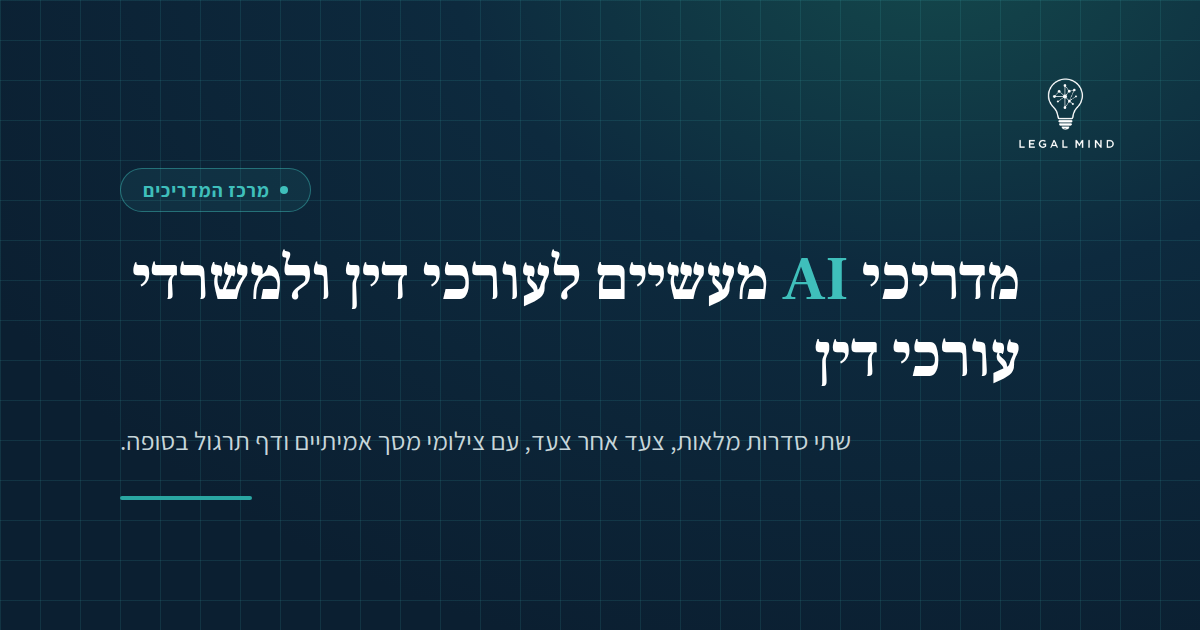
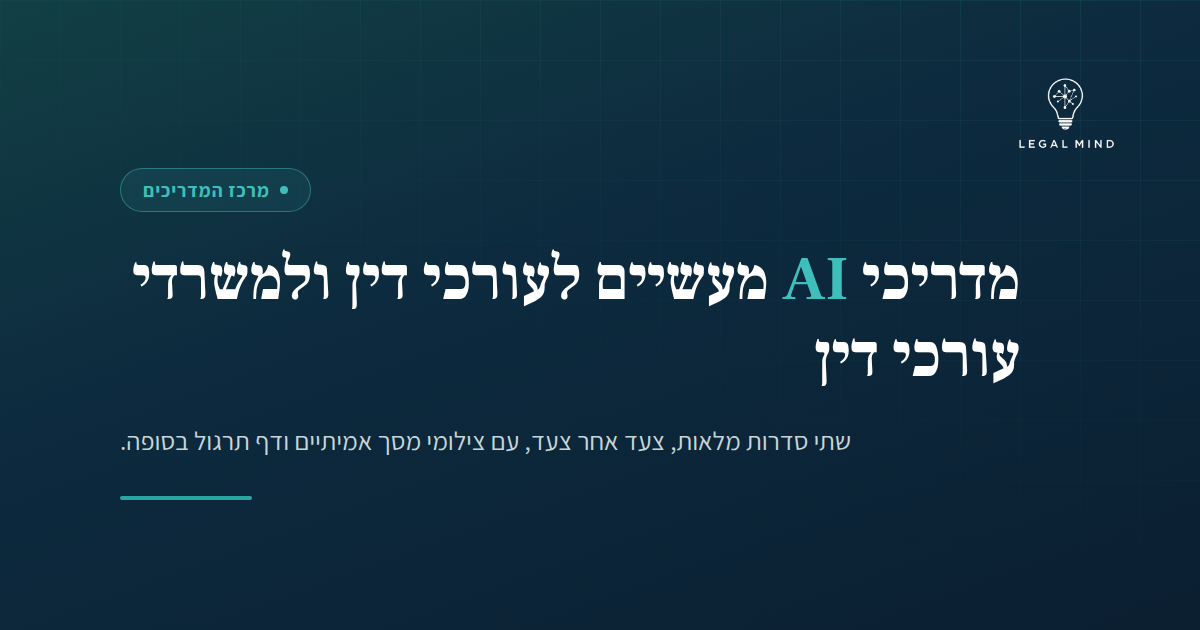
Match working preview image: lighter PNG instead of JPEG

Changed region(s): [[0.0, 0.0, 0.1233, 0.181]]

diff --git a/guides/chatgpt-work-guide.html b/guides/chatgpt-work-guide.html
@@ -15,13 +15,13 @@
 <meta property="og:title" content="מצב Work ב-ChatGPT - המדריך המלא למשרדי עורכי דין | Legal Mind">
 <meta property="og:description" content="המדריך המלא למצב Work ב-ChatGPT לעורכי דין: 17 פרקים עם צילומי מסך אמיתיים - התקנת אפליקציית המחשב, תהליך עבודה מלא עד קובץ מוגמר, חיבור אפליקציות, משימות מתוזמנות וקבצים מקומיים.">
 <meta property="og:url" content="https://www.legalmind.co.il/guides/chatgpt-work-guide.html">
-<meta property="og:image" content="https://www.legalmind.co.il/guides/og-chatgpt-work.jpg">
+<meta property="og:image" content="https://www.legalmind.co.il/guides/og-chatgpt-work.png">
 <meta property="og:image:width" content="1200">
 <meta property="og:image:height" content="630">
 <meta name="twitter:card" content="summary_large_image">
 <meta name="twitter:title" content="מצב Work ב-ChatGPT - המדריך המלא למשרדי עורכי דין | Legal Mind">
 <meta name="twitter:description" content="המדריך המלא למצב Work ב-ChatGPT לעורכי דין: 17 פרקים עם צילומי מסך אמיתיים - התקנת אפליקציית המחשב, תהליך עבודה מלא עד קובץ מוגמר, חיבור אפליקציות, משימות מתוזמנות וקבצים מקומיים.">
-<meta name="twitter:image" content="https://www.legalmind.co.il/guides/og-chatgpt-work.jpg">
+<meta name="twitter:image" content="https://www.legalmind.co.il/guides/og-chatgpt-work.png">
 
 <style>
 

diff --git a/guides/chatgpt-work.html b/guides/chatgpt-work.html
@@ -15,13 +15,13 @@
 <meta property="og:title" content="המדריך המקיף למצב Work ב-ChatGPT לעורכי דין">
 <meta property="og:description" content="דף מרכז למצב Work ב-ChatGPT לעורכי דין: מדריך מלא בן 17 פרקים עם צילומי מסך אמיתיים, ודף תרגול עם שישה תרגילים מודרכים.">
 <meta property="og:url" content="https://www.legalmind.co.il/guides/chatgpt-work.html">
-<meta property="og:image" content="https://www.legalmind.co.il/guides/og-chatgpt-work.jpg">
+<meta property="og:image" content="https://www.legalmind.co.il/guides/og-chatgpt-work.png">
 <meta property="og:image:width" content="1200">
 <meta property="og:image:height" content="630">
 <meta name="twitter:card" content="summary_large_image">
 <meta name="twitter:title" content="המדריך המקיף למצב Work ב-ChatGPT לעורכי דין">
 <meta name="twitter:description" content="דף מרכז למצב Work ב-ChatGPT לעורכי דין: מדריך מלא בן 17 פרקים ודף תרגול עם שישה תרגילים מודרכים.">
-<meta name="twitter:image" content="https://www.legalmind.co.il/guides/og-chatgpt-work.jpg">
+<meta name="twitter:image" content="https://www.legalmind.co.il/guides/og-chatgpt-work.png">
 <style>
 /* Legal Mind - external fonts */
 @font-face { font-family:'Assistant'; font-weight:400; font-style:normal; font-display:swap; src:url(fonts/assistant-400.woff2) format('woff2'); }

diff --git a/guides/chatgpt-work-practice.html b/guides/chatgpt-work-practice.html
@@ -15,13 +15,13 @@
 <meta property="og:title" content="דף תרגול - מצב Work ב-ChatGPT, שישה תרגילים | Legal Mind">
 <meta property="og:description" content="שישה תרגילים מודרכים ליישום מצב Work ב-ChatGPT, כולם על חומר מומצא: משימה ראשונה, מסמך מתבנית, חיבור אפליקציה, משימה מתוזמנת ותיקייה מקומית.">
 <meta property="og:url" content="https://www.legalmind.co.il/guides/chatgpt-work-practice.html">
-<meta property="og:image" content="https://www.legalmind.co.il/guides/og-chatgpt-work.jpg">
+<meta property="og:image" content="https://www.legalmind.co.il/guides/og-chatgpt-work.png">
 <meta property="og:image:width" content="1200">
 <meta property="og:image:height" content="630">
 <meta name="twitter:card" content="summary_large_image">
 <meta name="twitter:title" content="דף תרגול - מצב Work ב-ChatGPT, שישה תרגילים | Legal Mind">
 <meta name="twitter:description" content="שישה תרגילים מודרכים ליישום מצב Work ב-ChatGPT, כולם על חומר מומצא: משימה ראשונה, מסמך מתבנית, חיבור אפליקציה, משימה מתוזמנת ותיקייה מקומית.">
-<meta name="twitter:image" content="https://www.legalmind.co.il/guides/og-chatgpt-work.jpg">
+<meta name="twitter:image" content="https://www.legalmind.co.il/guides/og-chatgpt-work.png">
 
 <style>
 

diff --git a/guides/cowork.html b/guides/cowork.html
@@ -14,13 +14,13 @@
 <meta property="og:title" content="מדריך Claude Cowork לעורכי דין | Legal Mind">
 <meta property="og:description" content="דף מרכז לסדרת Claude Cowork לעורכי דין: שלושה מדריכים ודף תרגול לעבודה עם קלוד על תיק שלם, ישירות מהמחשב.">
 <meta property="og:url" content="https://www.legalmind.co.il/guides/cowork.html">
-<meta property="og:image" content="https://www.legalmind.co.il/guides/og-cowork.jpg">
+<meta property="og:image" content="https://www.legalmind.co.il/guides/og-cowork.png">
 <meta property="og:image:width" content="1200">
 <meta property="og:image:height" content="630">
 <meta name="twitter:card" content="summary_large_image">
 <meta name="twitter:title" content="מדריך Claude Cowork לעורכי דין | Legal Mind">
 <meta name="twitter:description" content="דף מרכז לסדרת Claude Cowork לעורכי דין: שלושה מדריכים ודף תרגול לעבודה עם קלוד על תיק שלם, ישירות מהמחשב.">
-<meta name="twitter:image" content="https://www.legalmind.co.il/guides/og-cowork.jpg">
+<meta name="twitter:image" content="https://www.legalmind.co.il/guides/og-cowork.png">
 
 <link href="guides-legacy.css" rel="stylesheet">
 <style>@media(min-width:900px){.guide-grid{grid-template-columns:repeat(2,minmax(0,1fr))}.learning-path ol{grid-template-columns:repeat(4,1fr)}}

diff --git a/guides/index.html b/guides/index.html
@@ -15,14 +15,14 @@
 <meta property="og:title" content="מרכז המדריכים של Legal Mind - AI מעשי לעורכי דין">
 <meta property="og:description" content="שתי סדרות מדריכים מלאות לעורכי דין: מעבר בטוח למנוי Claude Team, ומצב Work ב-ChatGPT.">
 <meta property="og:url" content="https://www.legalmind.co.il/guides/">
-<meta property="og:image" content="https://www.legalmind.co.il/guides/og-guides.jpg">
+<meta property="og:image" content="https://www.legalmind.co.il/guides/og-guides.png">
 <meta property="og:image:width" content="1200">
 <meta property="og:image:height" content="630">
 <meta property="og:image:alt" content="מרכז המדריכים של Legal Mind">
 <meta name="twitter:card" content="summary_large_image">
 <meta name="twitter:title" content="מרכז המדריכים של Legal Mind - AI מעשי לעורכי דין">
 <meta name="twitter:description" content="שתי סדרות מדריכים מלאות לעורכי דין: Claude Team ומצב Work ב-ChatGPT.">
-<meta name="twitter:image" content="https://www.legalmind.co.il/guides/og-guides.jpg">
+<meta name="twitter:image" content="https://www.legalmind.co.il/guides/og-guides.png">
 <style>
 /* Legal Mind - external fonts */
 @font-face { font-family:'Assistant'; font-weight:400; font-style:normal; font-display:swap; src:url(fonts/assistant-400.woff2) format('woff2'); }

diff --git a/guides/cowork-guide-1.html b/guides/cowork-guide-1.html
@@ -16,13 +16,13 @@
 <meta property="og:title" content="מדריך Claude Cowork · מדריך 1: נותנים לקלוד עבודה, לא רק שאלות | Legal Mind">
 <meta property="og:description" content="מדריך 1 בסדרת Cowork: נותנים לקלוד עבודה ולא רק שאלות - מה זה Cowork, איך מתחילים ומה מקבלים בסוף.">
 <meta property="og:url" content="https://www.legalmind.co.il/guides/cowork-guide-1.html">
-<meta property="og:image" content="https://www.legalmind.co.il/guides/og-cowork.jpg">
+<meta property="og:image" content="https://www.legalmind.co.il/guides/og-cowork.png">
 <meta property="og:image:width" content="1200">
 <meta property="og:image:height" content="630">
 <meta name="twitter:card" content="summary_large_image">
 <meta name="twitter:title" content="מדריך Claude Cowork · מדריך 1: נותנים לקלוד עבודה, לא רק שאלות | Legal Mind">
 <meta name="twitter:description" content="מדריך 1 בסדרת Cowork: נותנים לקלוד עבודה ולא רק שאלות - מה זה Cowork, איך מתחילים ומה מקבלים בסוף.">
-<meta name="twitter:image" content="https://www.legalmind.co.il/guides/og-cowork.jpg">
+<meta name="twitter:image" content="https://www.legalmind.co.il/guides/og-cowork.png">
 
 <link rel="stylesheet" href="guides-legacy.css">
 <style>

diff --git a/guides/cowork-guide-2.html b/guides/cowork-guide-2.html
@@ -16,13 +16,13 @@
 <meta property="og:title" content="מדריך Claude Cowork · מדריך 2: עובדים על תיק שלם | Legal Mind">
 <meta property="og:description" content="מדריך 2 בסדרת Cowork: עובדים על תיק שלם - חיבור תיקייה, מעבר על חומר אמיתי ותוצרים מוגמרים.">
 <meta property="og:url" content="https://www.legalmind.co.il/guides/cowork-guide-2.html">
-<meta property="og:image" content="https://www.legalmind.co.il/guides/og-cowork.jpg">
+<meta property="og:image" content="https://www.legalmind.co.il/guides/og-cowork.png">
 <meta property="og:image:width" content="1200">
 <meta property="og:image:height" content="630">
 <meta name="twitter:card" content="summary_large_image">
 <meta name="twitter:title" content="מדריך Claude Cowork · מדריך 2: עובדים על תיק שלם | Legal Mind">
 <meta name="twitter:description" content="מדריך 2 בסדרת Cowork: עובדים על תיק שלם - חיבור תיקייה, מעבר על חומר אמיתי ותוצרים מוגמרים.">
-<meta name="twitter:image" content="https://www.legalmind.co.il/guides/og-cowork.jpg">
+<meta name="twitter:image" content="https://www.legalmind.co.il/guides/og-cowork.png">
 
 <link rel="stylesheet" href="guides-legacy.css">
 <style>

diff --git a/guides/cowork-guide-3.html b/guides/cowork-guide-3.html
@@ -16,13 +16,13 @@
 <meta property="og:title" content="מדריך Claude Cowork · מדריך 3: Cowork שעובד גם כשאתם לא שם | Legal Mind">
 <meta property="og:description" content="מדריך 3 בסדרת Cowork: משימות שרצות גם כשאתם לא מול המחשב, ומה צריך להגדיר לפני.">
 <meta property="og:url" content="https://www.legalmind.co.il/guides/cowork-guide-3.html">
-<meta property="og:image" content="https://www.legalmind.co.il/guides/og-cowork.jpg">
+<meta property="og:image" content="https://www.legalmind.co.il/guides/og-cowork.png">
 <meta property="og:image:width" content="1200">
 <meta property="og:image:height" content="630">
 <meta name="twitter:card" content="summary_large_image">
 <meta name="twitter:title" content="מדריך Claude Cowork · מדריך 3: Cowork שעובד גם כשאתם לא שם | Legal Mind">
 <meta name="twitter:description" content="מדריך 3 בסדרת Cowork: משימות שרצות גם כשאתם לא מול המחשב, ומה צריך להגדיר לפני.">
-<meta name="twitter:image" content="https://www.legalmind.co.il/guides/og-cowork.jpg">
+<meta name="twitter:image" content="https://www.legalmind.co.il/guides/og-cowork.png">
 
 <link rel="stylesheet" href="guides-legacy.css">
 <style>

diff --git a/guides/cowork-practice.html b/guides/cowork-practice.html
@@ -16,13 +16,13 @@
 <meta property="og:title" content="מדריך Claude Cowork · דף תרגול | Legal Mind">
 <meta property="og:description" content="דף תרגול Cowork: שישה תרגילים קצרים מול המסך, מהקל אל המתקדם, כולם על חומר מומצא.">
 <meta property="og:url" content="https://www.legalmind.co.il/guides/cowork-practice.html">
-<meta property="og:image" content="https://www.legalmind.co.il/guides/og-cowork.jpg">
+<meta property="og:image" content="https://www.legalmind.co.il/guides/og-cowork.png">
 <meta property="og:image:width" content="1200">
 <meta property="og:image:height" content="630">
 <meta name="twitter:card" content="summary_large_image">
 <meta name="twitter:title" content="מדריך Claude Cowork · דף תרגול | Legal Mind">
 <meta name="twitter:description" content="דף תרגול Cowork: שישה תרגילים קצרים מול המסך, מהקל אל המתקדם, כולם על חומר מומצא.">
-<meta name="twitter:image" content="https://www.legalmind.co.il/guides/og-cowork.jpg">
+<meta name="twitter:image" content="https://www.legalmind.co.il/guides/og-cowork.png">
 
 <link rel="stylesheet" href="guides-legacy.css">
 <style>
